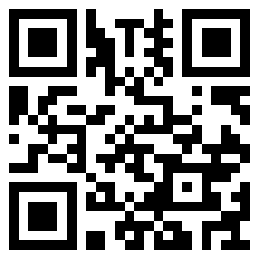
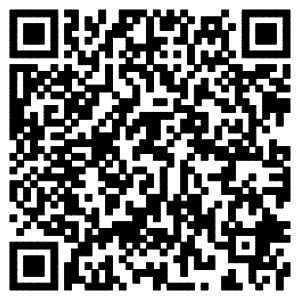
Fixed GetQRCode cmd
1：update a default QR
2：Fixed GetQRCode cmd

diff --git a/WinScreenShare/eshare.cpp b/WinScreenShare/eshare.cpp
@@ -152,6 +152,7 @@ QString Eshare::SetFloatingBallVisibility(qint16 cmdval)
 
 void Eshare::DataHandle(QByteArray array)
 {
+    //qInfo() << "DataHandle =" << array; //tmp
     QJsonParseError jsonError;
     QJsonObject jsonObject;
     QJsonDocument jsonDocument = QJsonDocument::fromJson(array,&jsonError);
@@ -185,7 +186,7 @@ void Eshare::DataHandle(QByteArray array)
 
                                        if(arrayobject.isObject())
                                        {
-                                           qDebug() <<  arrayobject;//onlydebug
+                                           //qDebug() <<  arrayobject;//onlydebug
                                            QJsonObject jsonObject = arrayobject.toObject();
                                            if(jsonObject.contains("deviceIp"))
                                            {
@@ -275,13 +276,13 @@ void Eshare::DataHandle(QByteArray array)
                             break;
                         case 1015:  //  GetQRCode
                             {
-                                if(jsonObject.contains("GetQRCode"))
+                                if(jsonObject.contains("qrCode"))
                                 {
-                                    QJsonValue value = jsonObject.value("GetQRCode");
+                                    QJsonValue value = jsonObject.value("qrCode");                      
                                     if(value.isString())
                                     {
                                        eshareinfo.qrCode = value.toString();
-                                       qDebug() << "qrCode :" << eshareinfo.qrCode;
+                                       qInfo() << "qrCode :" << eshareinfo.qrCode;
                                     }
                                 }
                             }

diff --git a/WinScreenShare/network.cpp b/WinScreenShare/network.cpp
@@ -51,8 +51,6 @@ void Network::connected()
 {
      qDebug() << "[HHTINFO] LocalHost connected";
      plusWindow->UpdateStatus("LocalHost Conneced");
-
-     //send("{\"SetDevPattern\":1}"); //only for test
 }
 
 void Network::disconnectFromSocket()
@@ -94,13 +92,13 @@ void Network::send(QJsonDocument doc)
 
 void Network::onSocketReadyRead()
 {
-     qDebug() << "[HHTINFO] ReadyRead";
      QByteArray array = tcpSocket->readAll();
+     qInfo() << "[HHTINFO] ReadyRead=" << array;
      if(!array.isEmpty()){
         //plusWindow->UpdateStatus("PIN:"+array.trimmed().mid(31,3)+array.trimmed().mid(35,3));
         // plusWindow->UpdateStatus(array);
         //qDebug() << "[HHTINFO] emit";
-         emit received_socketdata(array);
+         //emit received_socketdata(array);
          ReceivedDataHandle(array);
      }
 }
@@ -112,22 +110,24 @@ void Network::disconnected()
 
 void Network::ReceivedDataHandle(QByteArray array)
 {
+   //qInfo() << "goto eshare handle";
    eshare->DataHandle(array);
 }
 
 void Network::InitCommandList()
 {
     qDebug() << "[HHTINFO] InitCommandList";
-    send(eshare->SetDevPattern(1));
+    //send(eshare->SetDevPattern(1));
     //QThread::msleep(1);
-    send(eshare->GetDeviceList());
+    //send(eshare->GetDeviceList());
 
+    send(eshare->GetQRCode(0));
 
     //send(eshare->GetDeviceList());
     //send(eshare->GetClientList());
 
     //send(eshare->SetLicense(QString("YOUNEEDKEY")));
-    send(eshare->CheckLicense());
+    //send(eshare->CheckLicense());
     //0 is ng,same as other client; 1 2 mode is OK
     //send(eshare->SetDevPattern(1));
     //send(eshare->SetSettingVisibility(1));
